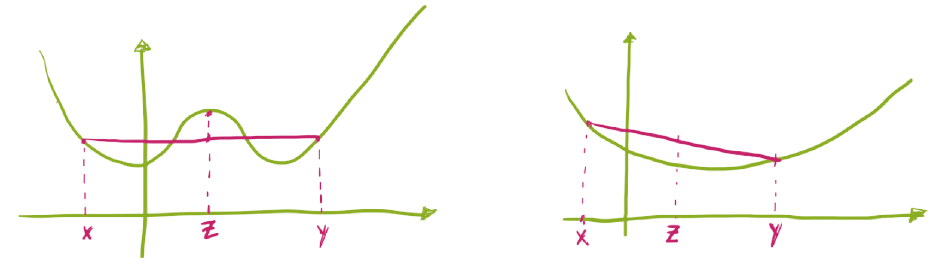
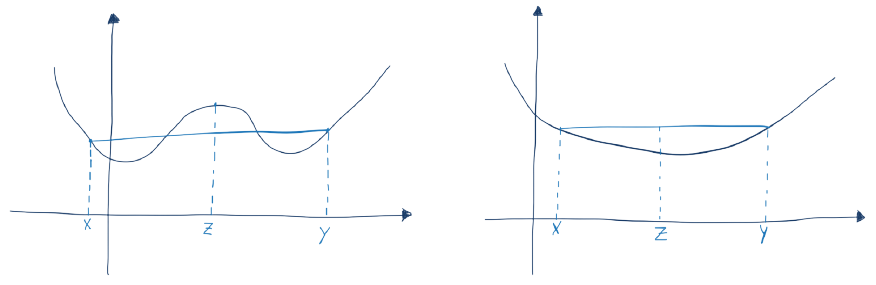
Update colors of images from unit04

diff --git a/4_intro_opt.md b/4_intro_opt.md
@@ -82,7 +82,7 @@ Un conjunto $X \subseteq \mathbb{R}^n$ se dice que es convexo para cualquier $x,
 
 ```{figure} images/unidad_4_conjuntos_convexos_bg.PNG
 ---
-width: 40%
+width: 60%
 align: center
 name: conjunto convexo y no convexo
 ---
